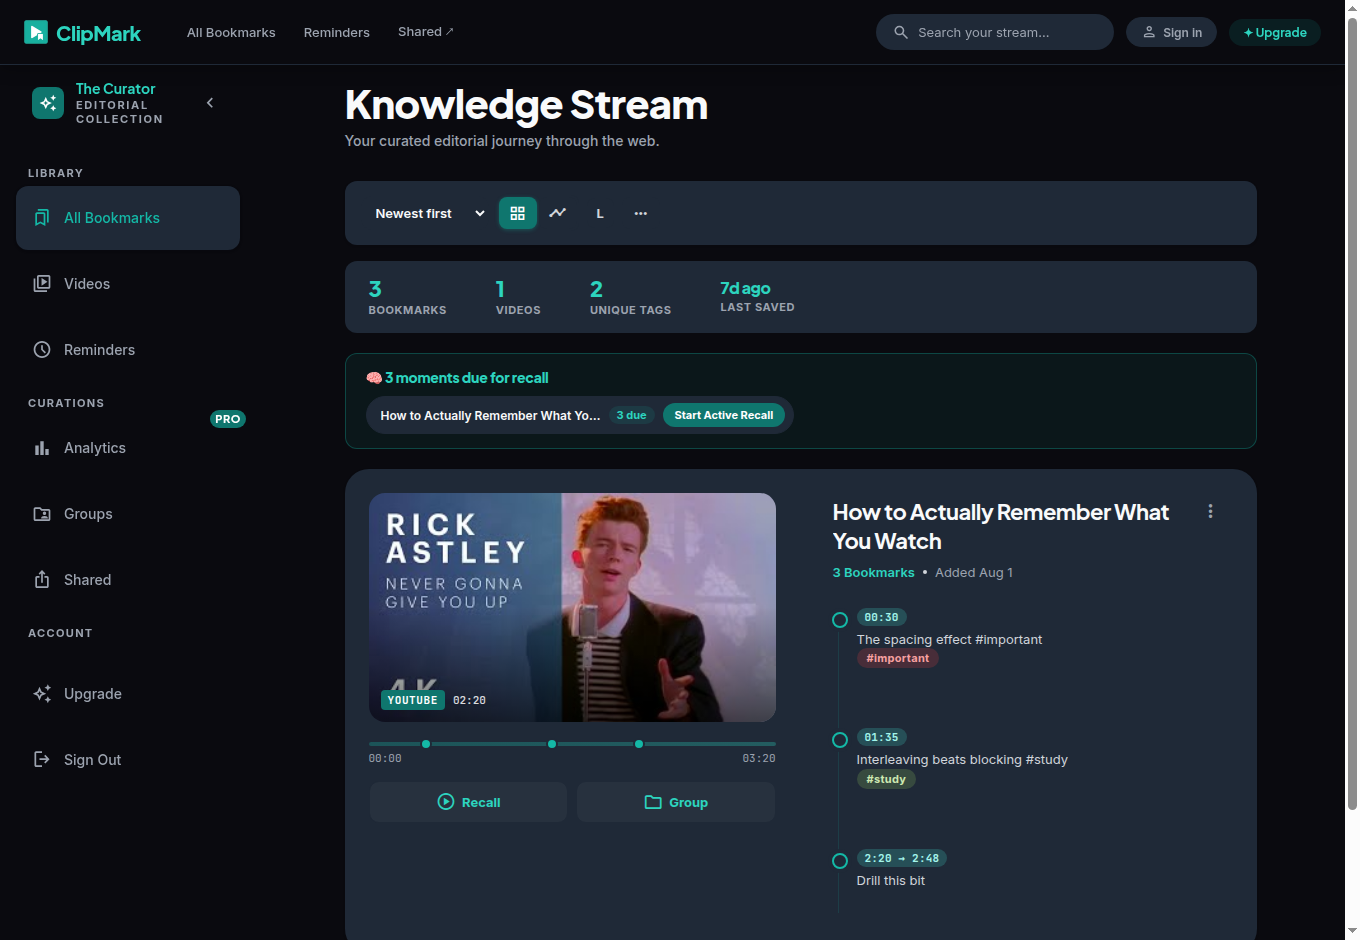
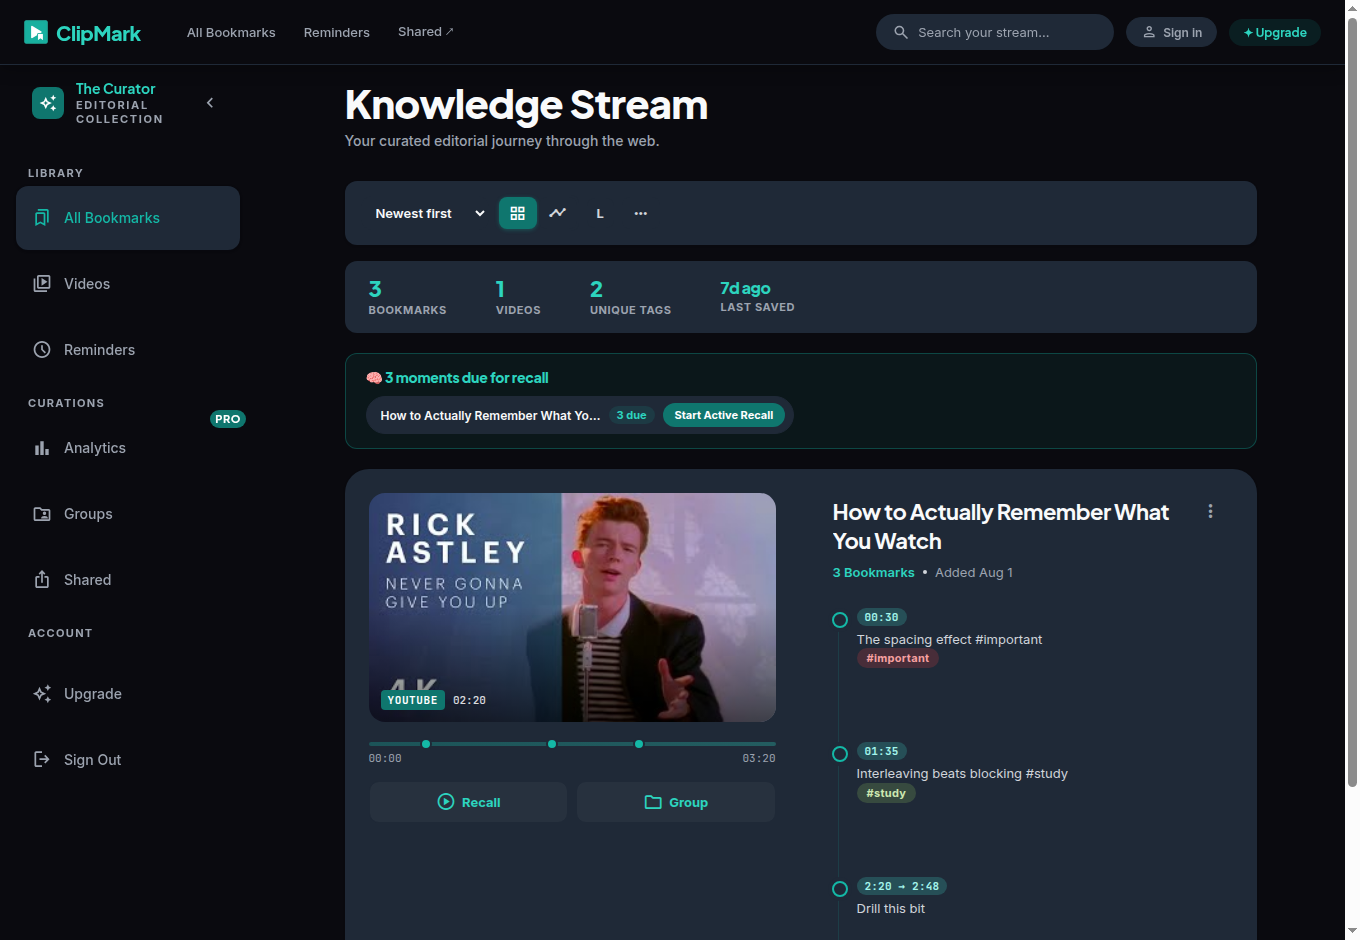
fix(dashboard): untangle the bookmark action row
The per-bookmark controls were a pile-up: the PRO badge, the four icon buttons
and the hover tooltip all landed in the same few pixels. Measured on the
packaged dashboard rather than eyeballed —

  buttons   28x28 at a 30px pitch, i.e. a 2px gap
  PRO badge 35.8px wide on a 28px button, overlapping copy-link by 4px
  tooltip   native `title`, drawn wherever the cursor happens to be

The badge overlap is partly self-inflicted: raising the badge to the 11px type
floor widened it from ~24px to ~36px, so what used to just about fit no longer
did. The badge is an absolutely-positioned ::after at right:-6px, and its own
comment claimed absolute positioning meant it "can't break dense icon rows" — it
does not change the button's box, but it very much paints over the neighbour.

  - gap 2px -> 8px, which clears the badge's 6px overhang with room to spare
  - buttons 28px -> 30px, the minimum DESIGN.md sets for extension icon buttons
  - `title` -> a positioned tooltip. The native one follows the cursor and there
    is no way to place it; this one renders below its button, where nothing is.
    `aria-label` is untouched, and `title` is dropped so both don't fire.
  - .vc-vt gap 20px -> 30px, because 20px did not leave room for that tooltip:
    it clipped the NEXT bookmark's timestamp chip by ~7px.

Checked across grid and timeline views, light and dark, gated and ungated rows.
The A-B range chip ("30:19 -> 34:55") is unaffected.
[…]

Changed region(s): [[0.6176, 0.7713, 0.8029, 0.8638], [0.6176, 0.8947, 0.7103, 0.9872], [0.9882, 0.833, 1.0, 0.8638]]

diff --git a/tests/design-consistency.spec.ts b/tests/design-consistency.spec.ts
@@ -267,6 +267,166 @@ test.describe('DESIGN.md conformance on the rendered surfaces', () => {
     await dash.close();
   });
 
+  test('the bookmark action row does not collide with the PRO badge or its tooltip', async () => {
+    // The row packs a Pro-gated notes button, three icon buttons, and (on hover)
+    // a tooltip. At gap:2px with a PRO badge ~36px wide sitting on a 28px button,
+    // the badge painted 4px over the copy-link button and the native `title`
+    // tooltip landed wherever the cursor was — the row read as broken.
+    const dash = await context.newPage();
+    await dash.setViewportSize({ width: 1360, height: 940 });
+    await dash.goto(`chrome-extension://${extensionId}/src/pages/dashboard.html`);
+    await dash.locator('.vc-chapter').first().waitFor({ timeout: 20_000 });
+
+    // Sign the profile in as a FREE user so the PRO badges actually render.
+    await dash.evaluate(() => document.body.classList.add('cm-free-tier'));
+
+    const measure = (theme: string, view: string) =>
+      dash.evaluate(({ theme, view }) => {
+        document.documentElement.setAttribute('data-theme', theme);
+        const rows = [...document.querySelectorAll('.vc-actions, .tl-actions')];
+        const problems: string[] = [];
+        let rowsSeen = 0;
+        let badgesSeen = 0;
+
+        for (const row of rows) {
+          // The row only paints on hover; force it so geometry is measurable.
+          (row as HTMLElement).style.opacity = '1';
+          const btns = [...row.querySelectorAll('.vc-action-btn')];
+          if (!btns.length) continue;
+          rowsSeen += 1;
+
+          const boxes = btns.map((b) => ({ el: b, r: b.getBoundingClientRect() }));
+
+          // Hit targets.
+          for (const { el, r } of boxes) {
+            if (r.width < 30 || r.height < 30) {
+              problems.push(`${view}/${theme}: ${(el.className as string).split(' ')[1]} is ${r.width}x${r.height}, below the 30px minimum`);
+            }
+          }
+
+          // Buttons must not overlap each other.
+          for (let i = 0; i < boxes.length; i++) {
+            for (let j = i + 1; j < boxes.length; j++) {
+              const a = boxes[i].r, b = boxes[j].r;
+              const ox = Math.min(a.right, b.right) - Math.max(a.left, b.left);
+              const oy = Math.min(a.bottom, b.bottom) - Math.max(a.top, b.top);
+              if (ox > 0 && oy > 0) problems.push(`${view}/${theme}: buttons ${i} and ${j} overlap by ${ox.toFixed(1)}px`);
+            }
+          }
+
+          // The PRO badge is an ::after on the gated button; derive its box and
+          // make sure it lands on no sibling.
+          const gated = row.querySelector('.cm-pro-gated');
+          if (gated) {
+            badgesSeen += 1;
+            const gr = gated.getBoundingClientRect();
+            const a = getComputedStyle(gated, '::after');
+            const bw = parseFloat(a.width) || 0;
+            const right = parseFloat(a.right) || 0;
+            const bLeft = gr.right - right - bw;
+            const bRight = bLeft + bw;
+            for (const { el, r } of boxes) {
+              if (el === gated) continue;
+              const ox = Math.min(bRight, r.right) - Math.max(bLeft, r.left);
+              if (ox > 0) problems.push(`${view}/${theme}: PRO badge covers ${(el.className as string).split(' ')[1]} by ${ox.toFixed(1)}px`);
+            }
+          }
+
+          // Neither the tooltip nor the PRO badge may cover the row's own
+          // buttons OR the note text and tag pills above it. The first pass
+          // only checked buttons, and the tooltip promptly landed on the tags.
+          // Scope to the whole card, not just this bookmark's own block: a
+          // tooltip that renders below the row is adjacent to the NEXT
+          // bookmark's timestamp chip, and covering that is just as wrong.
+          const neighbours = [...(row.closest('.vc-card, .tl-card, .vc-body')?.querySelectorAll(
+            '.vc-tags, .vc-vt-note, .vc-vt-time, .vc-vt-type, .tl-desc, .tl-ts, .tag-badge') ?? [])]
+            .map((n) => ({ n, r: n.getBoundingClientRect() }))
+            .filter(({ r }) => r.width > 0 && r.height > 0);
+
+          const hits = (a: DOMRect | { top: number; bottom: number; left: number; right: number }) =>
+            neighbours.filter(({ r }) =>
+              Math.min(a.right, r.right) - Math.max(a.left, r.left) > 1 &&
+              Math.min(a.bottom, r.bottom) - Math.max(a.top, r.top) > 1);
+
+          for (const { el, r } of boxes) {
+            const tip = getComputedStyle(el, '::before');
+            if (!tip.content || tip.content === 'none') continue;
+            const tw = parseFloat(tip.width) || 0;
+            const th = parseFloat(tip.height) || 0;
+            if (!tw || !th) continue;
+            // Derive the pseudo-element's painted box. getComputedStyle returns
+            // USED values for a positioned element, so `top`/`left` are already
+            // px relative to the button's padding box — and `bottom` is resolved
+            // too, which is why keying off "is bottom auto?" got this wrong the
+            // first time. Prefer `top`/`left`, and apply the transform's own
+            // translation rather than assuming translateX(-50%).
+            const tx = (() => {
+              const m = /matrix\(([^)]+)\)/.exec(tip.transform || '');
+              return m ? parseFloat(m[1].split(',')[4]) || 0 : 0;
+            })();
+            const top = tip.top !== 'auto'
+              ? r.top + parseFloat(tip.top)
+              : r.bottom - parseFloat(tip.bottom) - th;
+            const left = tip.left !== 'auto'
+              ? r.left + parseFloat(tip.left) + tx
+              : r.right - parseFloat(tip.right) - tw + tx;
+            const box = { top, bottom: top + th, left, right: left + tw };
+            const name = (el.className as string).split(' ')[1];
+            for (const { el: b, r: br } of boxes) {
+              if (Math.min(box.right, br.right) - Math.max(box.left, br.left) > 1 &&
+                  Math.min(box.bottom, br.bottom) - Math.max(box.top, br.top) > 1) {
+                problems.push(`${view}/${theme}: tooltip on ${name} covers ${(b.className as string).split(' ')[1]}`);
+              }
+            }
+            for (const h of hits(box)) {
+              problems.push(`${view}/${theme}: tooltip on ${name} covers "${(h.n.textContent ?? '').trim().slice(0, 24)}"`);
+            }
+          }
+
+          if (gated) {
+            const gr2 = gated.getBoundingClientRect();
+            const a2 = getComputedStyle(gated, '::after');
+            const bw2 = parseFloat(a2.width) || 0;
+            const bh2 = parseFloat(a2.height) || 0;
+            const right2 = parseFloat(a2.right) || 0;
+            const top2 = parseFloat(a2.top) || 0;
+            const bbox = { left: gr2.right - right2 - bw2, right: gr2.right - right2,
+                           top: gr2.top + top2, bottom: gr2.top + top2 + bh2 };
+            for (const h of hits(bbox)) {
+              problems.push(`${view}/${theme}: PRO badge covers "${(h.n.textContent ?? '').trim().slice(0, 24)}"`);
+            }
+          }
+        }
+        return { problems, rowsSeen, badgesSeen };
+      }, { theme, view });
+
+    const all: string[] = [];
+    let totalRows = 0;
+    let totalBadges = 0;
+    for (const theme of ['light', 'dark']) {
+      const res = await measure(theme, 'grid');
+      all.push(...res.problems);
+      totalRows += res.rowsSeen;
+      totalBadges += res.badgesSeen;
+    }
+
+    // Timeline view exercises .tl-actions, a separate row.
+    await dash.locator('#view-timeline').click();
+    await dash.waitForTimeout(700);
+    for (const theme of ['light', 'dark']) {
+      const res = await measure(theme, 'timeline');
+      all.push(...res.problems);
+      totalRows += res.rowsSeen;
+    }
+
+    if (all.length) console.log(`\n[action-row] findings:\n    ${all.join('\n    ')}\n`);
+    expect(totalRows, 'no action rows were measured').toBeGreaterThan(0);
+    expect(totalBadges, 'no PRO badge was rendered — the collision case was not exercised').toBeGreaterThan(0);
+    expect(all, 'bookmark action row layout collisions').toEqual([]);
+
+    await dash.close();
+  });
+
   test('the loop range on the scrubber is teal and actually visible', async () => {
     // Looping is not an AI feature, so it may not use the AI violet; and the
     // saved band was 0.18 alpha on a ~6px bar, competing with YouTube's red

diff --git a/extension/src/popup/dashboard.js b/extension/src/popup/dashboard.js
@@ -528,10 +528,10 @@ async function renderBookmarks() {
                         ).join('')}</div>`
                       : ''}
                     <div class="vc-actions">
-                      <button class="vc-action-btn vc-notes-btn cm-pro-gated${hasNotes ? ' vc-notes-btn--has-notes' : ''}" data-bookmark-id="${b.id}" data-video-id="${videoId}" title="Extended notes${hasNotes ? ' (has notes)' : ''}" aria-label="Extended notes${hasNotes ? ' (has notes)' : ''}">${ICON_NOTES}</button>
-                      <button class="vc-action-btn copy-link" data-video-id="${videoId}" data-timestamp="${b.timestamp}" title="Copy link" aria-label="Copy link">${ICON_LINK}</button>
-                      <button class="vc-action-btn vc-action-jump jump-to-video" data-video-id="${videoId}" data-timestamp="${b.timestamp}" title="Jump to timestamp" aria-label="Jump to timestamp">${ICON_JUMP}</button>
-                      <button class="vc-action-btn vc-action-del delete-bookmark" data-bookmark-id="${b.id}" data-video-id="${videoId}" title="Delete bookmark" aria-label="Delete bookmark">${ICON_TRASH}</button>
+                      <button class="vc-action-btn vc-notes-btn cm-pro-gated${hasNotes ? ' vc-notes-btn--has-notes' : ''}" data-bookmark-id="${b.id}" data-video-id="${videoId}" data-tip="Extended notes${hasNotes ? ' (has notes)' : ''}" aria-label="Extended notes${hasNotes ? ' (has notes)' : ''}">${ICON_NOTES}</button>
+                      <button class="vc-action-btn copy-link" data-video-id="${videoId}" data-timestamp="${b.timestamp}" data-tip="Copy link" aria-label="Copy link">${ICON_LINK}</button>
+                      <button class="vc-action-btn vc-action-jump jump-to-video" data-video-id="${videoId}" data-timestamp="${b.timestamp}" data-tip="Jump to timestamp" aria-label="Jump to timestamp">${ICON_JUMP}</button>
+                      <button class="vc-action-btn vc-action-del delete-bookmark" data-bookmark-id="${b.id}" data-video-id="${videoId}" data-tip="Delete bookmark" aria-label="Delete bookmark">${ICON_TRASH}</button>
                     </div>
                     <div class="vc-notes-panel" id="notes-${b.id}" data-bookmark-id="${b.id}" data-video-id="${videoId}">
                       <textarea class="vc-notes-textarea" placeholder="Add a longer note, context, or key insight…" rows="2">${b.notes || ''}</textarea>
@@ -561,10 +561,10 @@ async function renderBookmarks() {
                         ).join('')}</div>`
                       : ''}
                     <div class="vc-actions">
-                      <button class="vc-action-btn vc-notes-btn cm-pro-gated${hasNotes ? ' vc-notes-btn--has-notes' : ''}" data-bookmark-id="${b.id}" data-video-id="${videoId}" title="Extended notes${hasNotes ? ' (has notes)' : ''}" aria-label="Extended notes${hasNotes ? ' (has notes)' : ''}">${ICON_NOTES}</button>
-                      <button class="vc-action-btn copy-link" data-video-id="${videoId}" data-timestamp="${b.timestamp}" title="Copy link" aria-label="Copy link">${ICON_LINK}</button>
-                      <button class="vc-action-btn vc-action-jump jump-to-video" data-video-id="${videoId}" data-timestamp="${b.timestamp}" title="Jump to timestamp" aria-label="Jump to timestamp">${ICON_JUMP}</button>
-                      <button class="vc-action-btn vc-action-del delete-bookmark" data-bookmark-id="${b.id}" data-video-id="${videoId}" title="Delete bookmark" aria-label="Delete bookmark">${ICON_TRASH}</button>
+                      <button class="vc-action-btn vc-notes-btn cm-pro-gated${hasNotes ? ' vc-notes-btn--has-notes' : ''}" data-bookmark-id="${b.id}" data-video-id="${videoId}" data-tip="Extended notes${hasNotes ? ' (has notes)' : ''}" aria-label="Extended notes${hasNotes ? ' (has notes)' : ''}">${ICON_NOTES}</button>
+                      <button class="vc-action-btn copy-link" data-video-id="${videoId}" data-timestamp="${b.timestamp}" data-tip="Copy link" aria-label="Copy link">${ICON_LINK}</button>
+                      <button class="vc-action-btn vc-action-jump jump-to-video" data-video-id="${videoId}" data-timestamp="${b.timestamp}" data-tip="Jump to timestamp" aria-label="Jump to timestamp">${ICON_JUMP}</button>
+                      <button class="vc-action-btn vc-action-del delete-bookmark" data-bookmark-id="${b.id}" data-video-id="${videoId}" data-tip="Delete bookmark" aria-label="Delete bookmark">${ICON_TRASH}</button>
                     </div>
                     <div class="vc-notes-panel" id="notes-${b.id}" data-bookmark-id="${b.id}" data-video-id="${videoId}">
                       <textarea class="vc-notes-textarea" placeholder="Add a longer note, context, or key insight…" rows="2">${b.notes || ''}</textarea>
@@ -733,9 +733,9 @@ function renderTimelineView(bookmarks, container) {
           <div class="tl-desc">${b.description || 'No note added.'}</div>
           ${tagsHtml}
           <div class="tl-actions">
-            <button class="vc-action-btn copy-link" data-video-id="${b.videoId}" data-timestamp="${b.timestamp}" title="Copy link" aria-label="Copy link">${ICON_LINK}</button>
-            <button class="vc-action-btn vc-action-jump jump-to-video" data-video-id="${b.videoId}" data-timestamp="${b.timestamp}" title="Jump to timestamp" aria-label="Jump to timestamp">${ICON_JUMP}</button>
-            <button class="vc-action-btn vc-action-del delete-bookmark" data-bookmark-id="${b.id}" data-video-id="${b.videoId}" title="Delete bookmark" aria-label="Delete bookmark">${ICON_TRASH}</button>
+            <button class="vc-action-btn copy-link" data-video-id="${b.videoId}" data-timestamp="${b.timestamp}" data-tip="Copy link" aria-label="Copy link">${ICON_LINK}</button>
+            <button class="vc-action-btn vc-action-jump jump-to-video" data-video-id="${b.videoId}" data-timestamp="${b.timestamp}" data-tip="Jump to timestamp" aria-label="Jump to timestamp">${ICON_JUMP}</button>
+            <button class="vc-action-btn vc-action-del delete-bookmark" data-bookmark-id="${b.id}" data-video-id="${b.videoId}" data-tip="Delete bookmark" aria-label="Delete bookmark">${ICON_TRASH}</button>
           </div>
         </div>`;
       const nodeHtml = `<div class="tl-node"><div class="tl-dot" style="background:${color}"></div></div>`;

diff --git a/extension/styles/dashboard.css b/extension/styles/dashboard.css
@@ -1547,7 +1547,11 @@
     padding-left: 24px;
     display: flex;
     flex-direction: column;
-    gap: 20px;
+    /* 20px did not leave room for an action-button tooltip, which renders below
+       its row and clipped the NEXT bookmark's timestamp chip by ~7px. The
+       tooltip needs 6px of offset plus its own ~23px box; 30px clears it and
+       gives the list the air DESIGN.md asks for. */
+    gap: 30px;
     flex: 1;
 }
 
@@ -1743,13 +1747,20 @@
     flex-wrap: nowrap;
 }
 
+/* gap must clear the PRO badge's overhang. The badge is an absolutely-positioned
+   ::after on the gated button at right:-6px, and it is WIDER than the 30px button
+   (~36px at the 11px type floor), so it overhangs 6px to the right. At the old
+   2px gap it painted 4px over the copy-link button next to it, which is what made
+   the row read as broken. 8px clears it with room to spare, and also gives the
+   icons the breathing room DESIGN.md asks for. */
 .vc-actions {
     display: flex;
-    gap: 2px;
+    gap: 8px;
     align-items: center;
-    margin-top: 8px;
+    margin-top: 10px;
     opacity: 0;
     transition: opacity 0.12s;
+    flex-wrap: nowrap;
 }
 
 .vc-chapter:hover .vc-actions {
@@ -1761,8 +1772,10 @@
     display: flex;
     align-items: center;
     justify-content: center;
-    width: 28px;
-    height: 28px;
+    /* DESIGN.md: extension icon buttons are 30-32px square, no smaller. */
+    width: 30px;
+    height: 30px;
+    position: relative;
     padding: 0;
     background: transparent;
     border: none;
@@ -2680,7 +2693,8 @@
 
 .tl-actions {
     display: flex;
-    gap: 4px;
+    align-items: center;
+    gap: 8px;
     margin-top: 10px;
     opacity: 0;
     transition: opacity 0.12s;
@@ -4312,3 +4326,50 @@
     font-variant-numeric: tabular-nums;
     white-space: nowrap;
 }
+
+/* ── Action-button tooltips ───────────────────────────────────────────────── */
+/* These buttons used native `title` tooltips, which the browser draws next to
+   the CURSOR — so on a dense row the "Copy link" bubble landed over the buttons
+   and the note text beside them. A positioned tooltip renders above the row
+   instead, where it covers nothing. `aria-label` still carries the name for
+   assistive tech; `title` is dropped so the two don't both appear. */
+.vc-action-btn[data-tip]::before {
+    content: attr(data-tip);
+    position: absolute;
+    /* BELOW the button, not above. The action row is the last thing in a
+       bookmark block, so below is empty; above is the note text and its tag
+       pills, which an upward tooltip covered on every single button. */
+    top: calc(100% + 6px);
+    left: 50%;
+    transform: translateX(-50%);
+    padding: 4px 8px;
+    border-radius: var(--radius-sm);
+    background: var(--gray-900);
+    color: var(--gray-50);
+    font-family: var(--font);
+    font-size: 11px;
+    font-weight: 600;
+    line-height: 1.4;
+    white-space: nowrap;
+    pointer-events: none;
+    opacity: 0;
+    transition: opacity 0.12s;
+    z-index: 20;
+}
+
+.vc-action-btn[data-tip]:hover::before,
+.vc-action-btn[data-tip]:focus-visible::before {
+    opacity: 1;
+}
+
+/* The last button sits at the row's right edge; a centred tooltip would spill
+   out of the card, so anchor that one to the right. */
+.vc-actions .vc-action-btn:last-child[data-tip]::before,
+.tl-actions .vc-action-btn:last-child[data-tip]::before {
+    left: auto;
+    right: 0;
+    transform: none;
+}
+
+/* The PRO badge sits on the gated button's top-right corner and the tooltip is
+   below it, so they no longer compete for the same space. */

diff --git a/tests/screenshots.spec.ts b/tests/screenshots.spec.ts
@@ -183,9 +183,52 @@ test('capture the restyled surfaces', async () => {
   await dash.screenshot({ path: `${OUT}/04-dashboard.png` });
   await dash.locator('.page-header').screenshot({ path: `${OUT}/06b-header-dashboard.png` });
 
+  // ── 4b. The bookmark action row, hovered ──────────────────────────────────
+  // Free tier (no bmUser => not Pro), so the gated notes button carries its PRO
+  // badge. Hovering reveals the row and the copy-link tooltip, which is the
+  // exact combination that used to collide.
+  const chapter = dash.locator('.vc-chapter').first();
+  await chapter.scrollIntoViewIfNeeded();
+  await chapter.hover();
+  await dash.waitForTimeout(300);
+  await dash.locator('.vc-actions .copy-link').first().hover();
+  await dash.waitForTimeout(400);
+  const rowBox = await chapter.boundingBox();
+  if (rowBox) {
+    await dash.screenshot({
+      path: `${OUT}/14-bookmark-action-row.png`,
+      clip: {
+        x: Math.max(0, rowBox.x - 8),
+        y: Math.max(0, rowBox.y - 12),
+        width: Math.min(1360, rowBox.width + 16),
+        height: rowBox.height + 62,
+      },
+    });
+  }
+
   await dash.evaluate(() => document.documentElement.setAttribute('data-theme', 'dark'));
   await dash.waitForTimeout(400);
   await dash.screenshot({ path: `${OUT}/05-dashboard-dark.png` });
+  // The row is hover-revealed; a full-page screenshot in between drops the
+  // hover, so pin it open before re-hovering for the tooltip.
+  await dash.evaluate(() => {
+    const row = document.querySelector('.vc-actions') as HTMLElement | null;
+    if (row) row.style.opacity = '1';
+  });
+  await dash.locator('.vc-actions .copy-link').first().hover();
+  await dash.waitForTimeout(500);
+  const darkBox = await dash.locator('.vc-chapter').first().boundingBox();
+  if (darkBox) {
+    await dash.screenshot({
+      path: `${OUT}/14b-bookmark-action-row-dark.png`,
+      clip: {
+        x: Math.max(0, darkBox.x - 8),
+        y: Math.max(0, darkBox.y - 12),
+        width: Math.min(1360, darkBox.width + 16),
+        height: darkBox.height + 62,
+      },
+    });
+  }
   await dash.close();
 
   // ── 6-8. On YouTube: the scrubber ranges, an armed loop, the recall prompt ─
